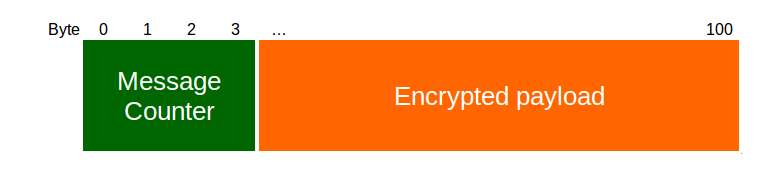
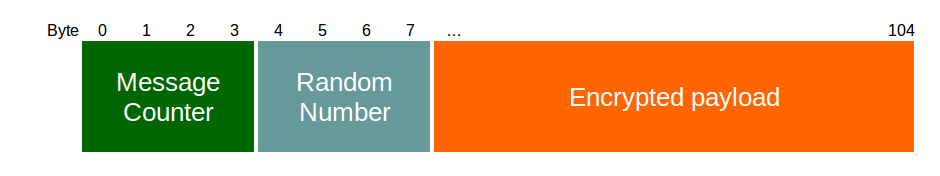
updated protocol docs with new encrypted mesh message

diff --git a/docs/PROTOCOL.md b/docs/PROTOCOL.md
@@ -639,7 +639,7 @@ uint 8 | AD type | 1 |
 uint 16 | Service UUID | 2 | Mesh service UUID.
 uint 16 | Handle | 2 | Handle of this message.
 uint 16 | Version | 2 | Used internally.
-[Encrypted mesh packet](#encrypted_mesh_packet) | Payload | 100 | The encrypted mesh message.
+[Encrypted mesh packet](#encrypted_mesh_packet) | Payload | 104 | The encrypted mesh message.
 uint 8 [] | CRC | 3 | Checksum.
 
 ### <a name="encrypted_mesh_packet"></a>Encrypted mesh packet
@@ -651,6 +651,7 @@ This packet is sent over the mesh as payload in the mesh message.
 Type | Name | Length | Description
 --- | --- | --- | ---
 uint 32 | Message counter | 4 | The message counter used to identify the message. Counter values are kept up seperately per handle. Note: This value is in plain text (unencrypted)
+uint 32 | Random number | 4 | The random number used for encryption/decryption, is sent itself unencrypted
 [Mesh packet](#mesh-packet) | Encrypted payload | 96 | The encrypted mesh packet.
 
 ### <a name="mesh-packet"></a>Mesh packet
